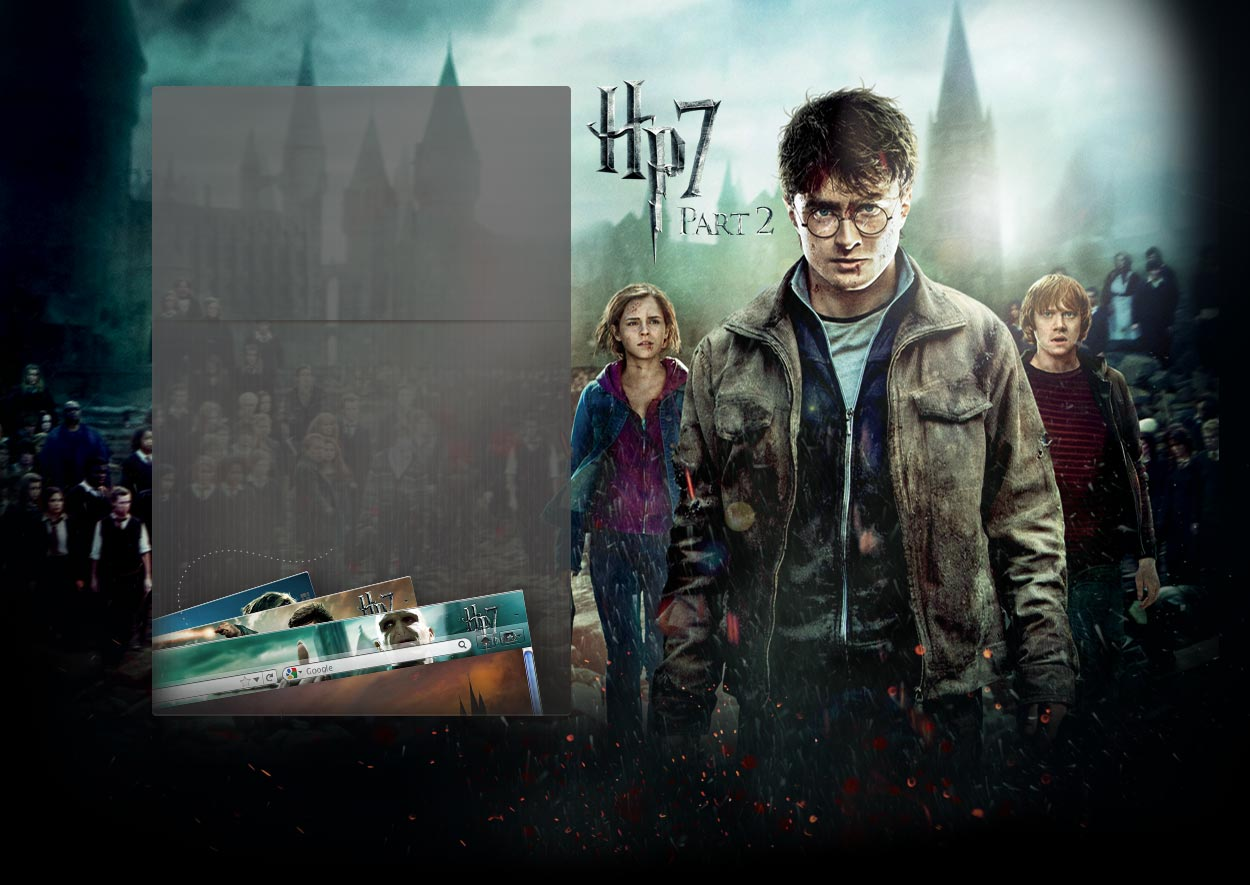
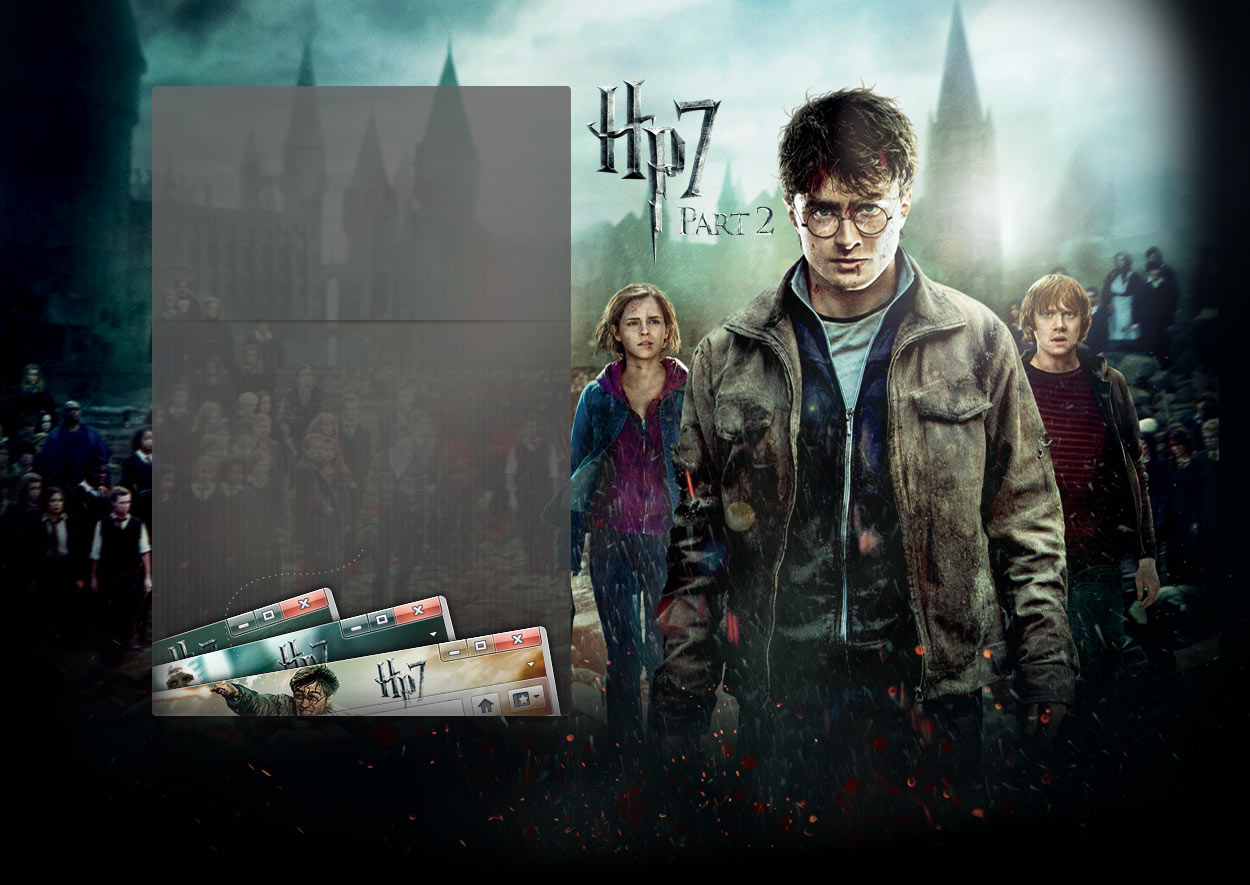
Updated images and page titles for whippet pages (Bug 667954)
git-svn-id: svn+ssh://svn.mozilla.org/projects/mozilla.com/trunk@92564 4eb1ac78-321c-0410-a911-ec516a8615a5

Changed region(s): [[0.1248, 0.6407, 0.468, 0.8237]]

diff --git a/style/covehead/hp7/hp7.css b/style/covehead/hp7/hp7.css
@@ -65,7 +65,7 @@ body#hp7-new    { background-image: url(/img/covehead/firefox/hp7/background-new
 }
 
 #main-feature {
-    height: 730px;
+    height: 738px;
     width: 420px;
     margin: 30px 18px;
     padding: 0;
@@ -73,7 +73,8 @@ body#hp7-new    { background-image: url(/img/covehead/firefox/hp7/background-new
 }
 
 #hp7-35     #main-feature { height: 660px; }
-#hp7-latest #main-feature { height: 660px; }
+#hp7-latest #main-feature { height: 650px; }
+#hp7-new    #main-feature { height: 660px; }
 
 #main-feature p {
     color: #d5d5d3;
@@ -86,13 +87,12 @@ body#hp7-new    { background-image: url(/img/covehead/firefox/hp7/background-new
 #main-feature #download {
     padding: 20px 30px 15px 30px;
     position: absolute;
-    bottom: 350px;
-    width: 360px; 
+    bottom: 360px;
+    width: 360px;
 }
 
-#hp7-35 #main-feature #download {
-    bottom: 260px;
-}
+#hp7-35  #main-feature #download { bottom: 260px; }
+#hp7-new #main-feature #download { bottom: 270px; }
 
 #main-feature #download p {
     padding: 10px 0;
@@ -128,7 +128,7 @@ body#hp7-new    { background-image: url(/img/covehead/firefox/hp7/background-new
 
 #persona-wrapper {
     position: absolute;
-    bottom: 145px;
+    bottom: 155px;
     left: 20px;
     width: 390px;
 }

diff --git a/en-US/hp7/latest/index.html b/en-US/hp7/latest/index.html
@@ -1,6 +1,6 @@
 <?php
     // The $body_* variables are for compatibility with pre-existing css
-    $page_title = 'It All Ends Here.';
+    $page_title = 'Mozilla Firefox - Harry Potter -- It All Ends Here';
     $body_id    = 'hp7-latest';
     $fonts = <<<FONTS
     <style>

diff --git a/en-US/hp7/new/index.html b/en-US/hp7/new/index.html
@@ -1,6 +1,6 @@
 <?php
     // The $body_* variables are for compatibility with pre-existing css
-    $page_title = 'It All Ends Here.';
+    $page_title = 'Mozilla Firefox - Harry Potter -- It All Ends Here';
     $body_id    = 'hp7-new';
     $fonts = <<<FONTS
     <style>

diff --git a/en-US/hp7/3.5/index.html b/en-US/hp7/3.5/index.html
@@ -1,6 +1,6 @@
 <?php
     // The $body_* variables are for compatibility with pre-existing css
-    $page_title = 'It All Ends Here.';
+    $page_title = 'Mozilla Firefox - Harry Potter -- It All Ends Here';
     $body_id    = 'hp7-35';
     $fonts = <<<FONTS
     <style>

diff --git a/en-US/hp7/3.6/index.html b/en-US/hp7/3.6/index.html
@@ -1,6 +1,6 @@
 <?php
     // The $body_* variables are for compatibility with pre-existing css
-    $page_title = 'It All Ends Here.';
+    $page_title = 'Mozilla Firefox - Harry Potter -- It All Ends Here';
     $body_id    = 'hp7-36';
     $fonts = <<<FONTS
     <style>
